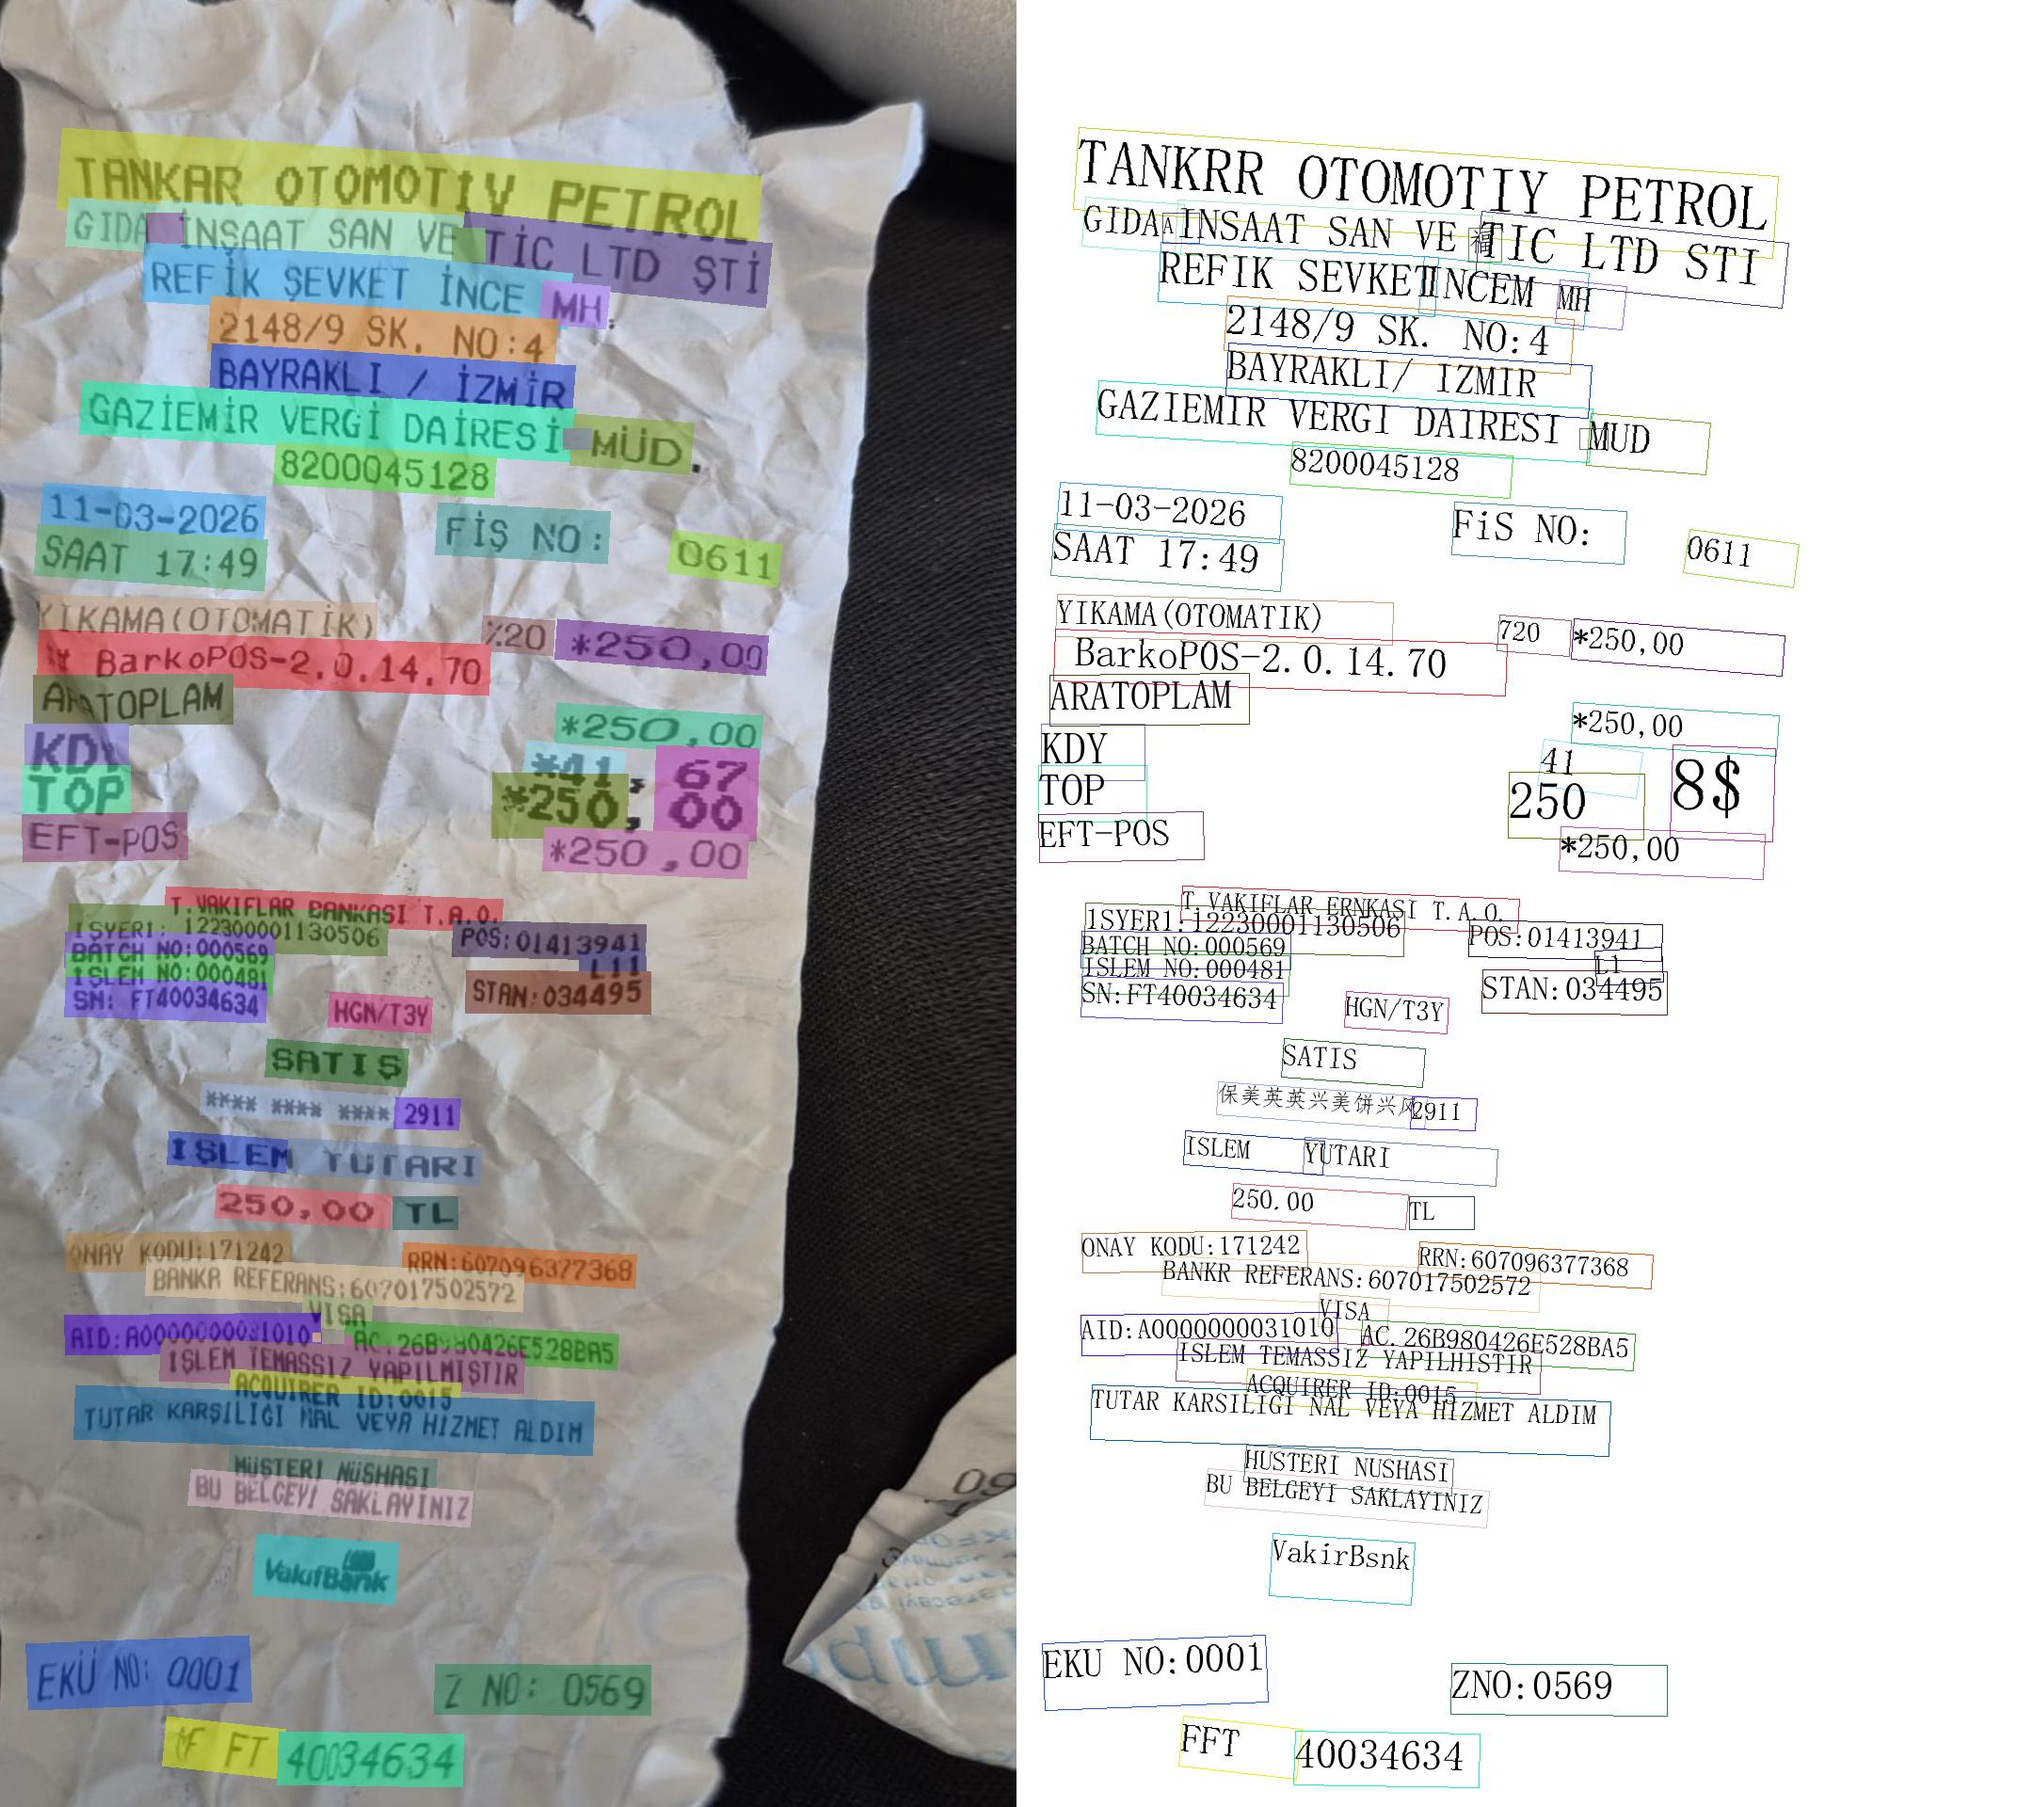
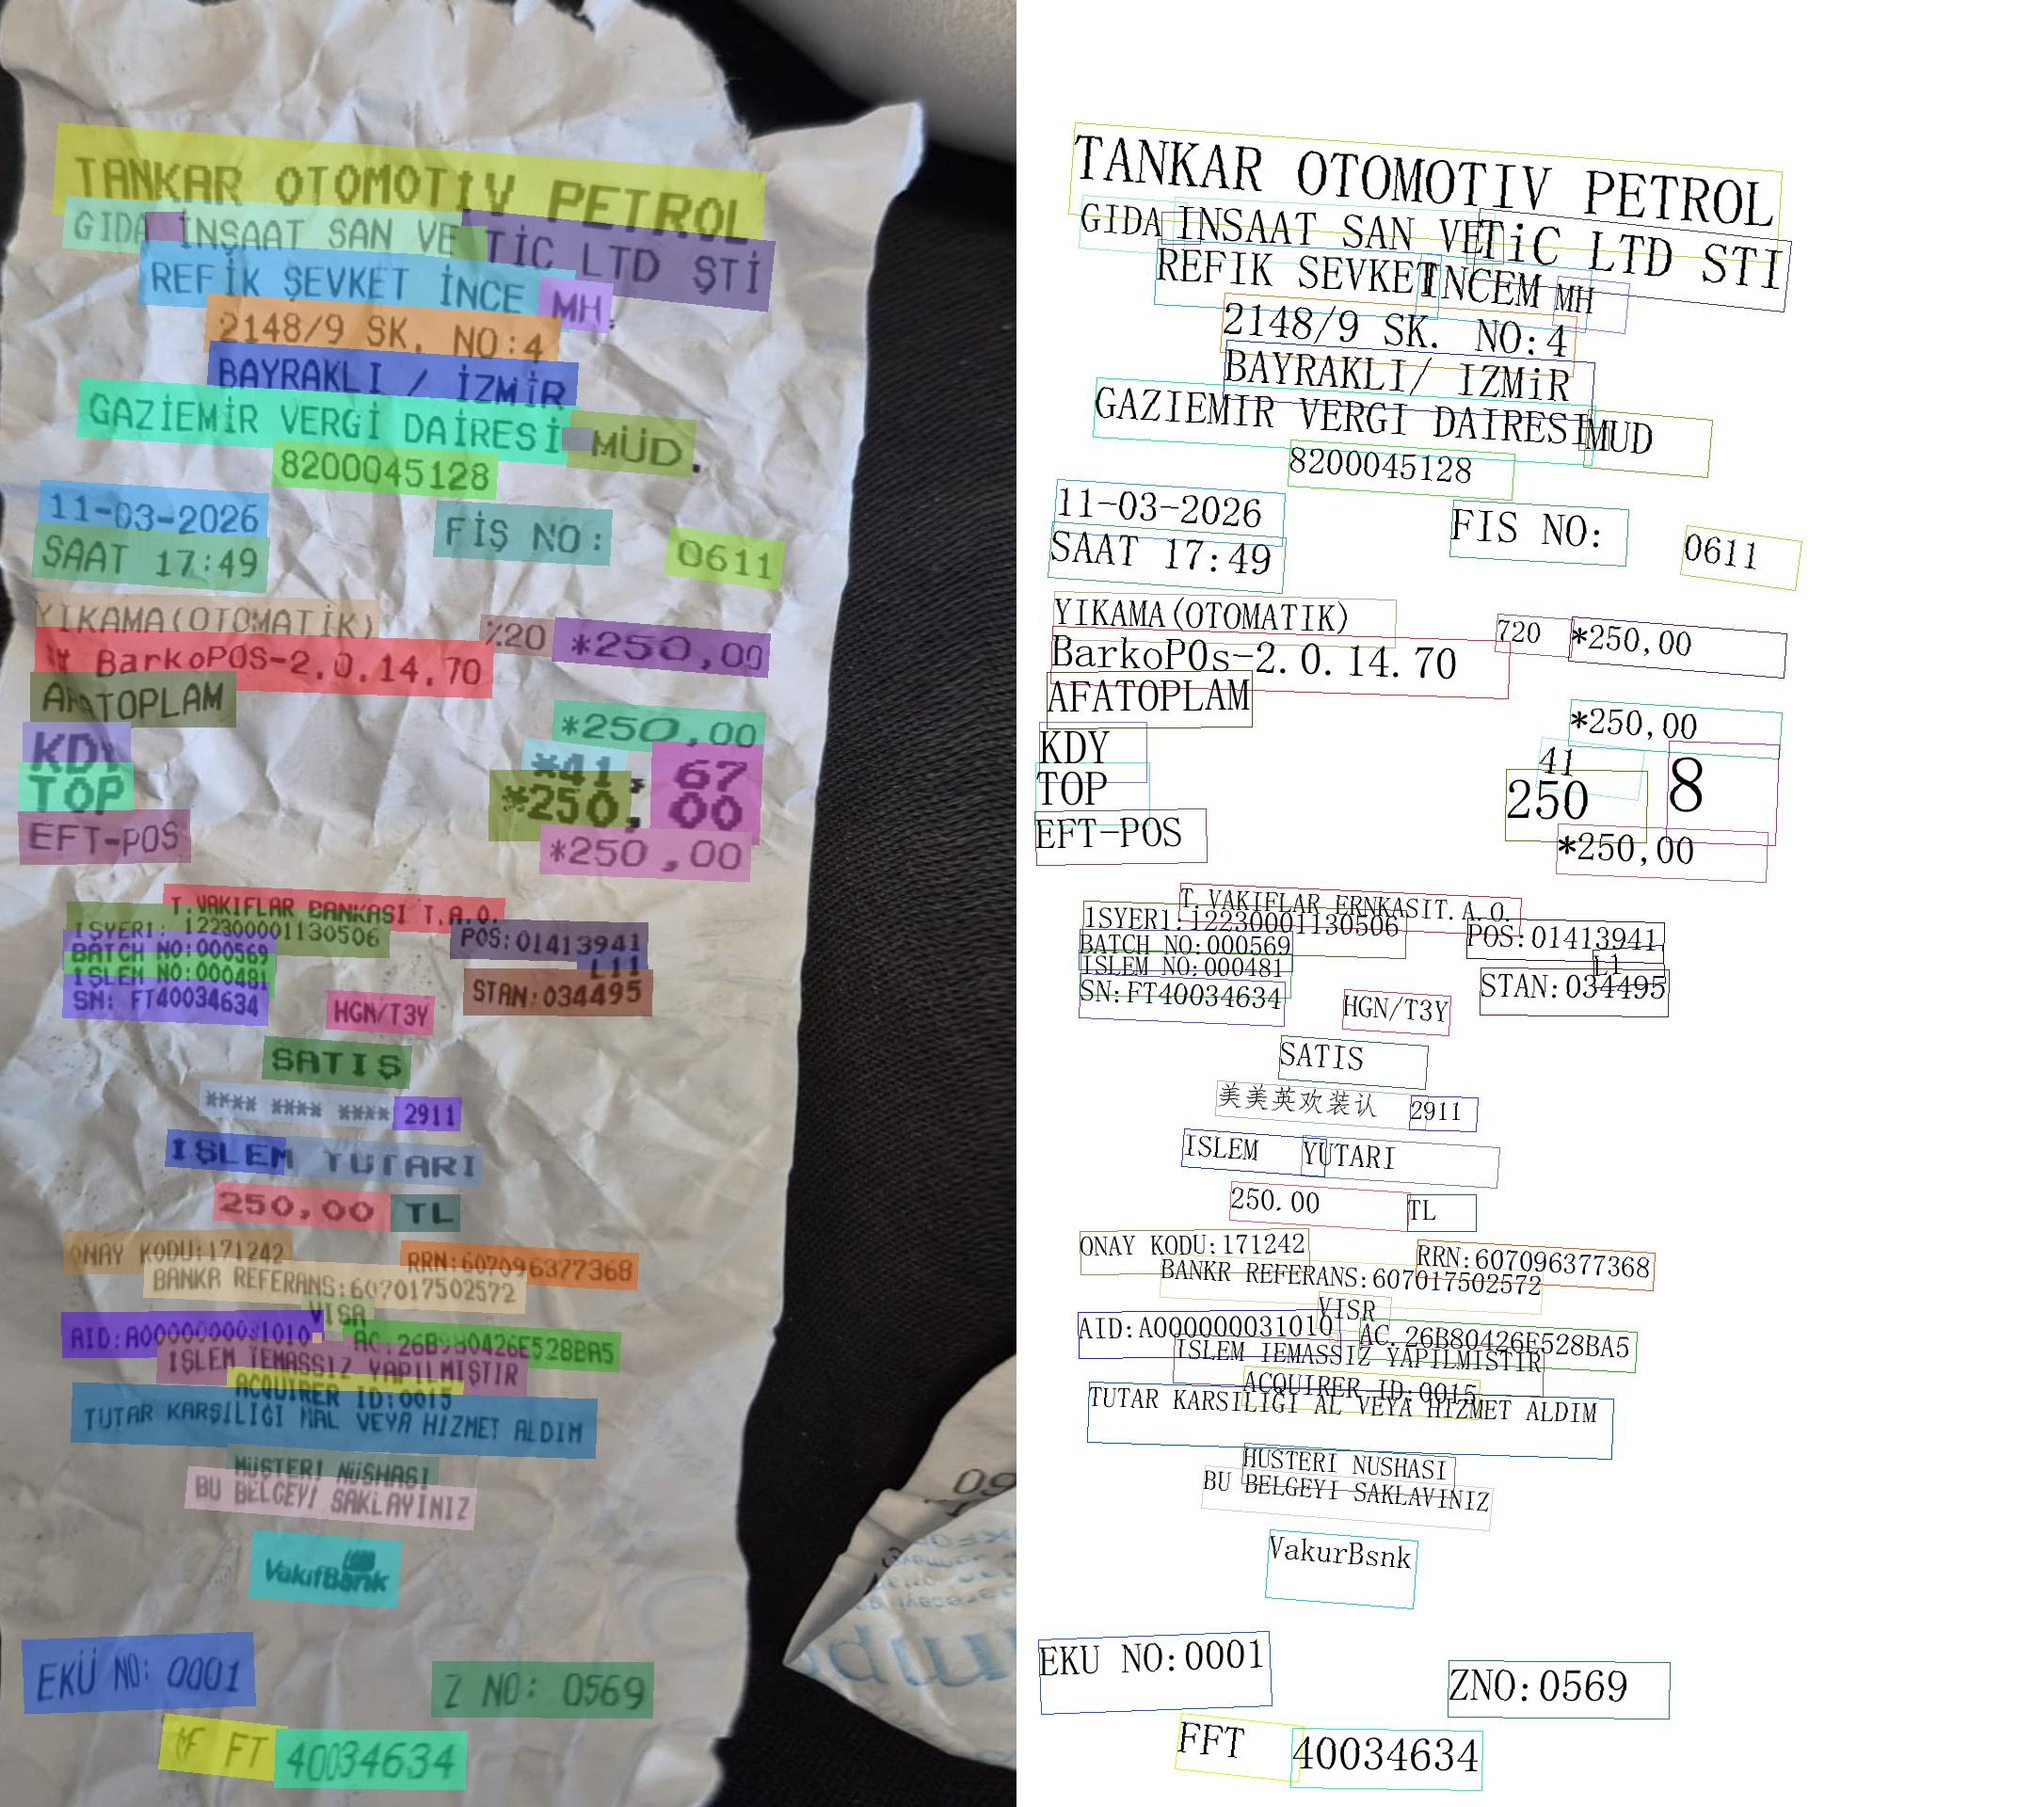
minor changes

diff --git a/batch.py b/batch.py
@@ -62,7 +62,7 @@ def get_ocr_engine():
         text_recognition_model_name="PP-OCRv5_mobile_rec",
         enable_mkldnn=False,  # prevents MKLDNN/PIR crash
         # Detection (DB) Parameters
-        det_db_unclip_ratio=1.7,   # Default is ~1.5. Increasing this expands the text bounding box. Highly useful for keeping "26.00" or "*250,00" in a single detection block.
+        det_db_unclip_ratio=2.0,   # Default is ~1.5. Increasing this expands the text bounding box. Highly useful for keeping "26.00" or "*250,00" in a single detection block.
         det_db_box_thresh=0.5,     # Default is ~0.6. Lowering this allows the model to detect fainter or slightly blurred text.
         det_db_thresh=0.3         # Binarization threshold. Lowering it helps with low-contrast print on thermal paper.
         # Recognition Parameters
